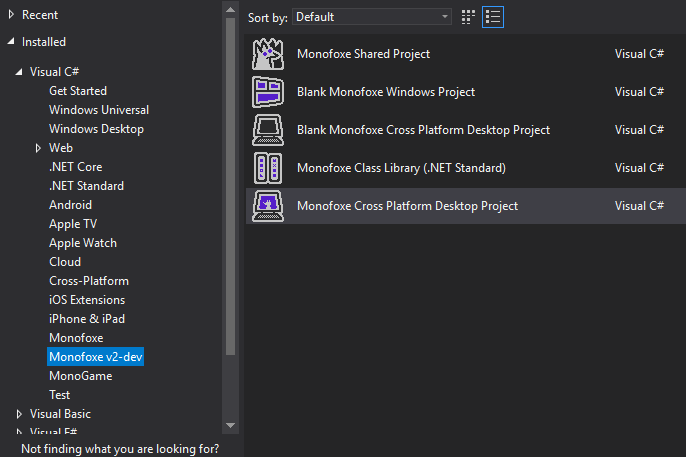
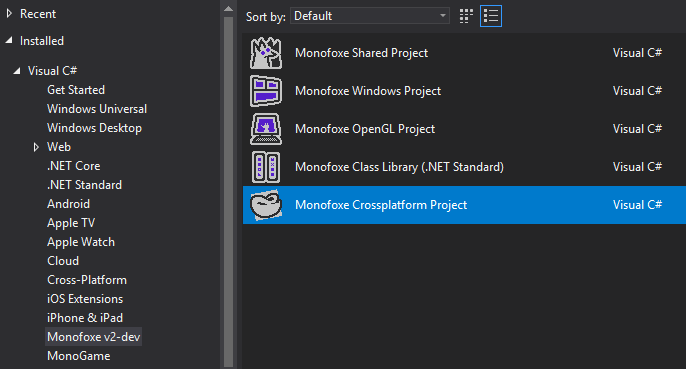
Updated basics aricles.

diff --git a/Docs/CreatingNewProject.md b/Docs/CreatingNewProject.md
@@ -14,34 +14,23 @@ Basically, the main idea behind all this mess is - *each project type can only e
 
 So, knowing that, we can divide projects into three categories:
 
-- ![](CrossplatformProject.png) Basic Desktop GL project - standalone project which contains everything necessary to run a game. I recommend using them for small and quick projects which doesn't need to be ported to other platforms.
+- ![](CrossplatformProject.png) Crossplatofrm project - standalone project which contains everything necessary to run a game. It already has Windows, OpenGL and Shared projects setup.
 
 - ![](SharedProject.png) Shared project - project which contains all the code and resources that should be shared between platforms. It is very much recommended to use it for big/crossplatform projects. 
 
-- ![](WinCrossplatformProjectsEmpty.png) Blank Crossplatform\Windows projects - projects which are made specifically to go with Shared project. They doesn't contain any code or resources. The difference between them is that Crossplatform runs on OpenGL and can run on Windows and Linux, whereas Windows project runs on DirectX and only on Windows.  
+- ![](WinOpenGLProjects.png) OpenGL\Windows projects - projects which are made specifically to go with Shared/Crossplatform projects. They doesn't contain any code or resources. The difference between them is that OpenGL can run on Windows and Linux, whereas Windows project runs on DirectX\Windows.  
 
 - ![](LibraryProject.png) Library project - a project which compiles into a standalone library. Use it to separate your game into modules. Unlike shared project, libraries recompile only if their code has been changed, so you can use them to shorten the compile time. This is targeted more towards larger games with lots of code. Also note that library can't contain its own Content, but you can still use content from outside platforms projects or shared libraries though `ResourceHub` class.
 
   
 
-## Ok, but how do I set up all this?
-
-- Create a Shared project. This will automatically create a solution, which is just a container for projects.
-- Create a new project in the same solution for whatever platform you'd like. I recommend naming it `<SharedProjectName>.<Platform>`, so if you're creating new Windows project for a shared project named `TestProject`, name it `TestProject.Windows`. You can name them however you like, tho, but I found that this works the best.
-- Now select your platform-specific project, right-click on its `References`, click `Add Reference`, find your shared project and add it.
-- Open `Program.cs` and make sure Shared project's namespace is included, so `Game1` class is visible. 
-
-And now you should be ready to go!
-
-
-
-## You keep talking about crossplatform support, but you've got a crossplatform project right there, what's all that shared nonsense is about?
+## You keep talking about crossplatform support, but you've got a crossplatform OpenGL project right there, what's all that shared nonsense is about?
 
 Don't look at me, it's all Monogame's fault.
 
 ![](FoxeHiding.png)
 
-Crossplatform project isn't that crossplatform if you actually look at it. It produces a single exe which can run on both Windows and Linux using some Mono magic. Monogame supports more platforms -- mobile, consoles, DirectX, all that good stuff. And it requires a setup with shared project.
+OpenGL project isn't that crossplatform if you actually look at it. It produces a single exe which can run on both Windows and Linux using some Mono magic. Monogame supports more platforms -- mobile, consoles, DirectX, all that good stuff. And it requires a setup with shared project.
 
 Currently Monofoxe supports only DesktopGL and DirectX desktop platforms...
 

diff --git a/Docs/SettingThingsUp.md b/Docs/SettingThingsUp.md
@@ -5,7 +5,7 @@
 Well, it is time to install Monofoxe. Currently Monofoxe only supports development on Windows and Visual Studio, but it should be technically possible to make it run on other operating systems and IDEs. 
 
 - Download Visual Studio 2017 [here](https://docs.microsoft.com/en-us/visualstudio/releasenotes/vs2017-relnotes). You can use 2019 or 2015, but I recommend 2017, since 2019 is fairly new and not officially supported by Monogame yet.
-- After installing Visual Studio and .NET package, download and install [latest Monofoxe release](https://github.com/gnFur/Monofoxe/releases/latest). The installer already comes with Monogame, so you don't need to worry about it. Additionally, Monofoxe will install [NoPipeline](https://github.com/gnFur/NoPipeline), which drastically improves Monogame resource management. **NOTE:** If you skip NoPipeline installation, Monofoxe projects will not work! 
+- After installing Visual Studio and .NET package, download and install [latest Monofoxe release](https://github.com/Martenfur/Monofoxe/releases/latest). The installer already comes with Monogame, so you don't need to worry about it. Additionally, Monofoxe will install [NoPipeline](https://github.com/Martenfur/NoPipeline), which drastically improves Monogame resource management. 
 
 And that's pretty much it! Now you can open Visual Studio and there you'll see Monofoxe project templates.
 

diff --git a/Docs/MonofoxeBasics.md b/Docs/MonofoxeBasics.md
@@ -29,7 +29,7 @@ The only thing you should notice from it is that it creates an instance of `Game
 
 By default it already has some simple logic. You can modify this class however you like.
 
-The `Content` folder contains all the game's resources in their original format. it also has a `.mgcb` ([Content Pipeline](http://www.monogame.net/documentation/?page=Pipeline)) and `.npl` ([NoPipeline](https://github.com/gnFur/NoPipeline)) configs which tell how resources should be processed. Don't worry about those for now.
+The `Content` folder contains all the game's resources in their original format. it also has a `.mgcb` ([Content Pipeline](http://www.monogame.net/documentation/?page=Pipeline)) and `.npl` ([NoPipeline](https://github.com/Martenfur/NoPipeline)) configs which tell how resources should be processed. Don't worry about those for now.
 
 The last notable folder is `Resources`. It provides a way to load and reference your resources. More detailed explanation will be provided in Resources section. 
 

diff --git a/Docs/Introduction.md b/Docs/Introduction.md
@@ -1,6 +1,6 @@
 # Introduction
 
-Sup. I am gn Fur and I made a game engine. It's called Monofoxe! 
+Sup. I am Martenfur and I made a game engine. It's called Monofoxe! 
 
 ![]()
 
